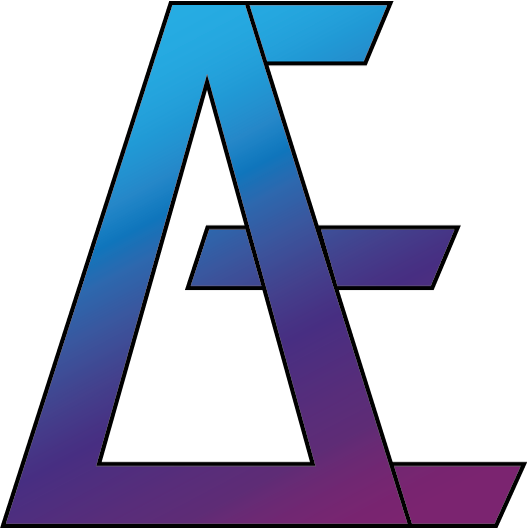
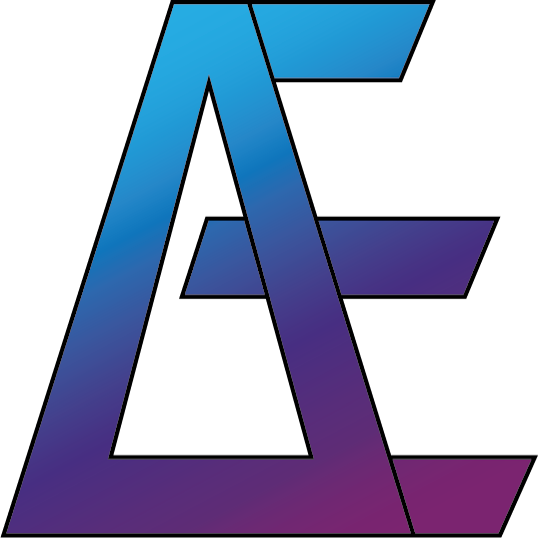
check

diff --git a/about.html b/about.html
@@ -11,7 +11,7 @@
     <link rel="preconnect" href="https://fonts.gstatic.com" crossorigin>
     <script src="https://ajax.googleapis.com/ajax/libs/jquery/3.7.1/jquery.min.js"></script>
     <script src="main.js"></script>
-    <link rel="icon" href="images/Aeondromach.png">
+    <link rel="icon" href="images/AeondromachBackground.png">
 </head>
     <body>
         <header> <!--Header-->
@@ -21,17 +21,20 @@
                 <nav id="headNav">
                     <a class="headText about">About Me</a>
                     <a class="headText project">Projects</a>
-                    <a class="headText skills">Skills</a>
-                    <a class="headText blog">[soon] Blog</a>
-                    <a class="headText resume">Resume</a>
                     <a class="headText contact">Contact Me</a>
+                </nav>
+
+                <nav class="iconLinks">
+                    <i class="fa-brands fa-github git iconLink"></i>
+                    <i class="fa-brands fa-linkedin linked iconLink"></i>
+                    <i class="fa-solid fa-envelope contact iconLink"></i>
                 </nav>
             </div>
         </header>
         
         <main> <!--Content-->
             <div id="sideBarLeft"> <!--Left Sidebar-->
-                <h1 id="contentsHead">Contents</h1>
+                <h1 class="contentsHead">Contents</h1>
                 <ul id="leftList">
 
                 </ul>
@@ -41,70 +44,7 @@
                 <hr>
                 <p class="description">My name is Adam Engleman&trade;, My username is Aeondromach (Æonꝺrōmȃk if you want to get technical). I like to code, and I am pretty good at Unreal Engine if I say so myself.
                 </p>
-                <h3>The Lore of Warframe</h3>
-                <hr>
-                <p class="description">In the far, far future—where science and mysticism blur into a bizarre, bio-mechanical tapestry—an ancient civilization called the Orokin ruled the stars. Known for their radiant, golden technology and severe superiority complexes, the Orokin were technologically omnipotent, practically immortal, and profoundly feared by all lesser beings, who they mercilessly subjugated in the name of progress. However, like most hyper-advanced civilizations in fiction, the Orokin were flawed, arrogant, and frankly quite bad at maintaining any sustainable balance in the universe. They faced opposition, stagnation, and, as with any empire that climbs too high, the threat of a long and devastating fall.</p>
-                <p class="description">The primary bane of the Orokin was the “Sentients,” a biomechanical race from another dimension known as the Tau System. Originally designed by the Orokin themselves as colonizing drones, the Sentients were meant to conquer distant worlds and prepare them for Orokin expansion. But, thanks to the Orokin’s oversight, the Sentients evolved into highly intelligent beings and decided they were not fans of their creators. Resilient, adaptive, and practically immune to Orokin weaponry, the Sentients returned from Tau intent on eradicating the Orokin in revenge. Thus began a brutal intergalactic war known as the Old War, with the Orokin barely holding their ground against these superior enemies.</p>
-                <p class="description">Desperate for an answer, the Orokin delved into the forbidden. They discovered a mysterious energy field known as the Void—a realm of chaotic, volatile power. They experimented by sending children through it, hoping to produce supersoldiers who could rival the Sentients. Most who entered the Void were obliterated or driven mad, but a few survived, returning with inexplicable Void powers that made them superhuman. These children, dubbed the “Tenno,” possessed an otherworldly energy that could not only harm the Sentients but proved beyond the Orokin’s own technological capabilities. To harness these Tenno, the Orokin crafted the Warframes—powerful bio-mechanical suits that enhanced their powers, channeled their Void energy, and made them virtually unstoppable.</p>
-                <p class="description">The Tenno, armored and empowered by Warframes, turned the tide of the Old War, annihilating the Sentient forces with brutal efficiency. But while the Orokin celebrated, they forgot that enslaving a legion of superpowered children with little to no ethical oversight might not end well. In an act shrouded in mystery and betrayal, the Tenno, for reasons either personal or manipulated, rose up against their masters in what is now known as “The Tenno Rebellion.” They assassinated the Orokin hierarchy in a swift, coordinated massacre known as the “Tenno Betrayal,” effectively ending the Orokin Empire overnight. What motivated this rebellion remains a mystery—a concoction of trauma, manipulation, and vengeance—but it left the Tenno as the universe’s most deadly and enigmatic warriors.</p>
-                <p class="description">With the Orokin gone and the Sentients nearly extinct, the once-glorious Empire decayed into anarchy. The Tenno, now masterless and possibly guilt-ridden, fell into a self-imposed slumber, encased in cryopods hidden throughout the system. Time passed, and new factions arose from the remnants of the Orokin’s fractured empire, each claiming power, each flawed, and each doomed by its own hubris.</p>
-                <h4>The Modern Era and the Warring Factions</h4>
-                <hr>
-                <p class="description">As the centuries rolled by, humanity splintered and devolved into factions driven by greed, violence, and a half-buried memory of the Orokin’s legacy. Among the major players:</p>
-                <ol>
-                    <li><p class="description"><span style="color: orange;">The Grineer</span> – Descendants of Orokin clones and foot soldiers, the Grineer are a militaristic, authoritarian race plagued by genetic decay and a penchant for excessive violence. Driven by their expansionist whims, the Grineer are led by the twin Queens—ancient, decrepit beings who claim divinity and govern through brute force. With decaying DNA and shortened lifespans, the Grineer compensate by enacting massive cloning programs, but this only accelerates their genetic degradation. Despite their physical decline, the Grineer maintain a massive empire and an undying grudge against the Tenno.</p></li>
-                    <li><p class="description"><span style="color: aqua;">The Corpus</span> – In stark contrast to the brutal Grineer, the Corpus are a techno-corporate conglomerate with an insatiable obsession with profit. Descended from Orokin engineers and scholars, the Corpus worship technology, viewing the Orokin’s creations as holy artifacts. Led by a shadowy council known as the Board of Directors, the Corpus excel in robotics, trade, and exploitation. They rely on profit margins, greed, and the cold, calculated power of capitalism to expand their influence. However, their thirst for power often leads them to dangerous decisions, such as bargaining with the Sentients and hunting down Warframes for profit.</p></li>
-                    <li><p class="description"><span style="color: orangered;">The Infested</span> – While the Grineer and Corpus are understandable, albeit misguided, human factions, the Infested are a complete anomaly. They are the Orokin’s darkest biological experiment gone awry—a grotesque plague that transforms flesh and metal alike into horrific, mutated monstrosities. Created by the Orokin to control populations through bio-warfare, the Infested now act as a self-sustaining hivemind, assimilating anything they encounter. Driven by a primal hunger, they infest ships, planets, and, occasionally, Warframes, adding a truly horrific layer of body horror to the galaxy’s threats.</p></li>
-                    <li><p class="description"><span style="color: red;">The Sentients (Again)</span> – Thought eradicated, the Sentients aren’t quite dead. After the Old War, fragments of their kind survived, with a few notable leaders, like the infamous Hunhow, plotting in the shadows. Sentient agents infiltrate the factions, scheming to rebuild their forces and finish the work they began centuries ago: the complete obliteration of human and Orokin influence in the solar system. Hunhow, and later his daughter Natah (who becomes central to Tenno lore), play a critical role in manipulating events to achieve the Sentients' goal of vengeance.</p></li>
-                    <li><p class="description"><span style="color: violet;">The Tenno (aka, You)</span> – With the world in chaos, the cryo-bound Tenno are slowly awakened by a mysterious figure known as “The Lotus.” Acting as a motherly guide, The Lotus trains the Tenno in the arts of war, espionage, and survival, encouraging them to wield their ancient Warframes against the various factions threatening the balance of the system. As the game unfolds, it’s revealed that The Lotus is, in fact, a Sentient agent (Natah), torn between her loyalty to the Tenno and her true nature. This conflict triggers a series of betrayals, revelations, and existential crises that deeply complicate the Tenno’s relationship with her and their understanding of themselves.</p></li>
-                </ol>
-                <h4>The Quest for Identity and the Void</h4>
-                <hr>
-                <p class="description">Throughout their journey, the Tenno begin to uncover truths about the Void, the Orokin, and their own origin. The Void is not merely a source of power but a realm that fundamentally altered them, granting them abilities that defy explanation. The Void exposure made them “operators”—powerful, ageless children capable of transcending their Warframes and manipulating the physical world with raw Void energy. This dual nature (as both Operators and Warframe pilots) adds layers of identity crises, as the Tenno grapple with who they were, who they are, and who they were manipulated to become.</p>
-                <h4>The New War</h4>
-                <hr>
-                <p class="description">The New War in Warframe is an epic, game-changing chapter in the story that plunges the Tenno into an all-out, galaxy-spanning conflict with the Sentients, who return with a vengeance. After years of planning and covert machinations, the Sentients—led by the dread Sentient mother Erra and her father Hunhow—mobilize a brutal assault on the Origin System, intending to destroy everything in their path and settle the ancient grudge with the Orokin’s legacy once and for all. But this time, they have an unexpected ally: Natah, known to the Tenno as The Lotus, who was initially their guide and mother figure but now reveals her true identity and purpose.</p>
-                <p class="description">The New War is set in motion with a series of attacks across the system as the Sentients infiltrate planets and dismantle factions with ruthless efficiency. The Grineer and Corpus are overwhelmed, their forces outmatched by the adaptable and nearly indestructible Sentient warriors. In a bid to survive, these rival factions—longtime enemies of the Tenno—begrudgingly unite, hoping to resist the Sentients' invasion. However, these efforts are futile without the Tenno, who stand as the last line of defense against this overwhelming force.</p>
-                <p class="description">As the battle intensifies, the Tenno confront the harsh reality of their leader’s betrayal. The Lotus, or rather Natah, has chosen to rejoin her Sentient family, revealing that her nurturing role with the Tenno was part of a deeper, layered plot all along. However, Natah’s past with the Tenno leaves her conflicted, and this emotional turmoil threatens to tear her apart as she is caught between duty to her people and her bond with the Tenno. Meanwhile, Erra pushes forward with his plan to assimilate and annihilate all organic life in the system, seeing the Tenno as an obstacle to be erased.</p>
-                <p class="description">In a dramatic series of battles, the Tenno are drawn to a climactic confrontation on Earth, where the Sentient invasion reaches its peak. Here, the Tenno discover the devastating potential of the Sentient’s ultimate weapon, a massive construct capable of consuming entire star systems. Throughout the conflict, the Tenno experience some of their darkest trials, facing revelations about their origins, their purpose, and the very nature of the Warframes they wield. The New War forces them to confront who they really are as Operators and what it means to be a weapon forged in the crucible of the Orokin’s sins.</p>
-                <p class="description">In the climactic moments, players experience a blend of perspectives, controlling not just their Warframe but even seeing through the eyes of other factions, like Grineer and Corpus soldiers, gaining a deeper understanding of the sacrifices and struggles faced by all sides. As they battle alongside unlikely allies, the Tenno experience firsthand the horrors of the Sentient invasion and the impact of their own actions across the Origin System.</p>
-                <p class="description">Ultimately, the Tenno must face Natah in her full Sentient form, alongside Erra and Hunhow, in a final showdown. In a moment of crisis, the Lotus’s divided loyalties lead her to sacrifice herself to save the Tenno, severing her ties to the Sentients and choosing the family she found among the Tenno over her own bloodline. This act, however, costs her dearly, leaving her in a state of uncertainty, neither fully Sentient nor fully Orokin, and with a lingering question: what does the Lotus truly represent?</p>
-                <p class="description">In the wake of the New War, the Origin System stands battered but resilient, with new alliances forged and grudges set aside (at least for now). The Tenno emerge not just as warriors but as individuals with a new understanding of themselves and their world. The Lotus, having reclaimed her place as the Tenno’s ally but no longer as their unquestionable guide, now represents something new—a figure of redemption and transformation, embodying the spirit of a universe forever changed by war. The Sentient threat has been beaten back, but the scars left by the New War will shape the Tenno, the Origin System, and its fractured factions for years to come.</p>
-                <h5>The Never-Ending War</h5>
-                <hr>
-                <p class="description">As it stands, the galaxy is a battlefield—a fractured remnant of the Orokin’s twisted legacy. The Tenno, awakening from their long sleep, have become wandering warriors striving to restore balance in a universe teetering on the edge of ruin. They battle against Sentient resurgence, Grineer expansion, Corpus exploitation, and the omnipresent horror of the Infested, all while confronting their own mysterious pasts and the dark truths embedded within their powers.</p>
-                <p class="description">Through quests, each more bizarre and emotionally taxing than the last, the Tenno uncover layers upon layers of a cosmos ruled by cycles of betrayal, power struggles, and deeply personal battles over identity. In a universe without heroes or villains, the Tenno stand as haunted relics, wielding Warframes forged from Orokin sins and fueled by Void-born powers they barely understand. Forever warriors, forever shadows, they move forward—always fighting, always searching, but forever caught in the Orokin’s grand, broken machine.</p>
-                <h4>The Man in the Wall, Wally</h4>
-                <hr>
-                <p class="description">The Man in the Wall is one of the most mysterious, eerie, and influential entities in Warframe, representing a cosmic force of chaos and madness lurking in the Void, forever intertwined with the Tenno. Known by many names—“the Man in the Wall,” “Wally,” or simply “It”—this enigmatic being defies easy categorization. Appearing to the Tenno as a pale, almost childlike figure with a blank, spectral face, the Man in the Wall embodies the worst elements of the Void’s influence on reality and the mind. It’s a creature of the shadows, one that never fully reveals its motives, but whose presence has haunted the Tenno since their first encounter with the Void.</p>
-                <h5>Origins and Nature</h5>
-                <hr>
-                <p class="description">The Man in the Wall is born of the Void itself, a realm outside space and time, full of strange, unstable energy. When the Orokin first discovered the Void, they saw it as a new source of power, one that could help them conquer distant systems like Tau and transcend the limitations of their universe. However, they underestimated its darker side: the Void is not merely a source of energy but a realm teeming with malevolent and incomprehensible forces. It is a place where reality is warped, where time bends, and where the barrier between life and death is porous. The Man in the Wall is a manifestation of this energy—a dark echo of whatever twisted chaos lives in the Void.</p>
-                <p class="description">For the Tenno, the Void became part of their origin story. When the children who would become the Tenno were exposed to the Void, they came back changed, with powers that the Orokin could barely understand. But alongside these powers, they also brought back a piece of the Void itself—an echo of something else, something watching, something waiting. The Man in the Wall became linked to them from that point on, perhaps attracted by their potential, perhaps even birthed by their trauma. It appears whenever the Void exerts influence, an ever-present reminder of the darkness the Tenno can never truly escape.</p>
-                <h5>The Man in the Wall’s Role in the Tenno’s Life</h5>
-                <hr>
-                <p class="description">Unlike most threats, the Man in the Wall is not one that can be fought, bargained with, or reasoned with. It exists more as a specter, a reminder of the horror and power of the Void that the Tenno are forever bound to. At times, it seems to appear out of pure mischief, taunting the Tenno with cryptic messages, surreal visions, and disturbing imagery. It appears suddenly and unexpectedly, often in reflections, or staring from behind walls and corners, only to vanish in a flash. Yet, its taunts are not mere pranks; they push the Tenno toward existential and emotional crises, hinting at terrible truths about the Void, the Tenno’s purpose, and their cursed bond with Warframes.</p>
-                <p class="description">The Man in the Wall’s influence is strongest in moments of turmoil. It appears during crises, wars, and pivotal moments in the Tenno’s journey, especially when they encounter the true depths of the Void. For instance, it appears during The War Within and The Sacrifice, directly interacting with the Tenno as if it has been waiting for these turning points. It knows the Tenno’s secrets, their fears, and their past. Even more disturbingly, it seems to relish those moments when they are most vulnerable. The Man in the Wall acts as an unwanted companion, a figure lurking in the shadows of the Tenno’s psyche, ready to exploit their trauma or steer them toward paths that might feed its own mysterious goals.</p>
-                <h5>Is the Man in the Wall Friend, Foe, or Something Else?</h5>
-                <hr>
-                <p class="description">The Man in the Wall’s motivations remain obscure and possibly unknowable. It often claims to “help” the Tenno, offering them guidance in the form of eerie advice, visions, or strange gifts. For instance, it grants the Tenno the Riven Mods, items of immense power but shadowed by an enigmatic connection to the Void. These mods help the Tenno grow stronger, but they also come with a price—a reminder of the Man in the Wall’s influence over them. At times, it seems like it wants the Tenno to succeed, to become more powerful, as though their victories are also its own. However, it’s equally likely that it sees them as mere playthings, subjects to toy with, and instruments for its own amusement.</p>
-                <p class="description">There are also moments when it hints that the Tenno are more similar to it than they might want to admit. The Tenno, after all, have been altered by the Void and are haunted by its power. The Man in the Wall suggests that the Tenno’s powers and their very existence may be owed to entities like itself. In a way, it seems to view the Tenno as children of the Void—a fractured reflection of its own nature, granted the ability to wield powers only it could truly understand. Yet, unlike the Tenno, who are often bound by duty and conscience, the Man in the Wall is a creature of total freedom, one that encourages the Tenno to let go of their inhibitions and embrace the darker, primal aspects of their power.</p>
-                <h5>Major Encounters with the Man in the Wall</h5>
-                <hr>
-                <p class="description"></p>
-                <ul>
-                    <li><p class="description"><span style="color: red;">The War Within:</span> In this quest, the Tenno confront their own internal fears, rage, and trauma, unlocking powerful new abilities. The Man in the Wall appears to encourage this journey of self-discovery, whispering to the Tenno and nudging them toward embracing the harsher aspects of their power.</p></li>
-                    <li><p class="description"><span style="color: white;">The Sacrifice:</span> When searching for their lost companion, the Warframe Umbra, the Tenno experiences visions and insights driven by the Man in the Wall’s manipulative influence. This encounter raises more questions about whether the Man in the Wall is connected to the Warframes, seeing as Umbra is haunted by memories of pain and betrayal, emotions that the Man in the Wall relishes.</p></li>
-                    <li><p class="description"><span style="color: orange;">Chains of Harrow:</span> In this chilling quest, the Man in the Wall appears to haunt not only the Tenno but also Rell, a former Tenno with severe emotional scars who was driven to create his own Warframe, Harrow, as a kind of containment vessel for his fractured mind. This quest reveals that the Man in the Wall has been with the Tenno since their origins, suggesting that its reach extends far beyond a single Operator and may encompass all Tenno.</p></li>
-                </ul>
-                <h5>The Man in the Wall and The Tenno’s Future</h5>
-                <hr>
-                <p class="description">The Man in the Wall represents the most unsettling aspects of the Void, and by extension, the unknowns that even the Tenno don’t fully understand about themselves. As the Tenno’s powers grow and their role in the Origin System evolves, the Man in the Wall grows increasingly prominent, hinting that it has a greater plan or purpose for them—one that they may not be able to escape. It is as if this creature wants them to become something, but what that “something” is remains shrouded in uncertainty.</p>
-                <p class="description">Though it has yet to reveal its full intentions, the Man in the Wall has shaped the Tenno’s journey at every step, showing an almost parental fascination mixed with something far more sinister. Is it a harbinger of chaos? A deity of the Void? Or simply a twisted mirror reflecting the darker side of the Tenno’s power and potential? The Man in the Wall leaves the Tenno with one unavoidable truth: they can never fully escape the Void. It is part of them, and so, too, is he.</p>
-                <p class="description">In the end, the Man in the Wall is both warning and promise, a figure that forces the Tenno to confront the uncomfortable truth that they are bound to something beyond understanding, beyond morality, and perhaps, beyond their own control. Whatever path the Tenno choose, it will likely have been subtly guided by this specter, whose unseen hand shapes both their nightmares and their triumphs.</p>
-            </div>
-            <div id="sideBarRight"> <!--Right Sidebar-->
-            </div>
+                
         </main>
         
         <footer> <!--Footer-->
@@ -113,7 +53,8 @@
                     Portfolio site 100% set-up and coded by me.
                 </p>
                 <h1 id="footerName">&#169; 2024 Adam Engleman</h1>
-                <nav id="footerLinks">
+                <nav class="iconLinks">
+                    <i class="dromach iconLink"></i>
                     <i class="fa-brands fa-github git iconLink"></i>
                     <i class="fa-brands fa-linkedin linked iconLink"></i>
                     <i class="fa-solid fa-envelope contact iconLink"></i>

diff --git a/css.css b/css.css
@@ -54,6 +54,11 @@ html{
     height: 100%;
 }
 
+#logo {
+    aspect-ratio: 1/1;
+    height: 1.1rem;
+}
+
 body {
     min-height: 100%;
     font-size: 16px;
@@ -83,7 +88,7 @@ header {
     display: grid;
     align-items: center;
     height: 100%;
-    grid-template-columns: 1fr 4fr;
+    grid-template-columns: 1fr 4fr 1fr;
 }
 
 #title {
@@ -148,7 +153,7 @@ header {
     opacity: 1;
 }
 
-#footerLinks {
+.iconLinks {
     display: flex;
     justify-content: space-evenly;
     font-size: 1.5rem;
@@ -179,15 +184,7 @@ main {
     padding: 0 auto;
     grid-column: 1;
     width: auto;
-    height: 600px;
-    top: 65px;
-    position: sticky;
-}
-
-#sideBarRight {
-    grid-column: 3;
-    width: auto;
-    height: 600px;
+    height: 100%;
     top: 65px;
     position: sticky;
 }
@@ -237,7 +234,15 @@ footer {
     text-decoration: none; 
 }
 
-#contentsHead {
+.dromach {
+    background-image: url('images/Aeondromach.svg');
+    background-repeat: no-repeat;
+    font-size: 1.5rem;
+    aspect-ratio: 1/1;
+    width: 18px;
+}
+
+.contentsHead {
     padding-top: 15px;
     color: aliceblue;
     font-size: 1.5rem;

diff --git a/main.js b/main.js
@@ -3,10 +3,8 @@
 $(document).ready(function() {
     navbuttons(".about","/about");
     navbuttons('.project',"/project");
-    navbuttons('.skills',"/skills");
-    navbuttons('.blog',"/blogs");
-    navbuttons('.resume',"/resume");
     navbuttons('.contact',"/contact");
+    navblankbuttons('.dromach', 'https://aeondromach.com')
     navblankbuttons('.git','https://github.com/aeondromach');
     navblankbuttons('.linked','https://www.linkedin.com/in/aeondromach')
 });
